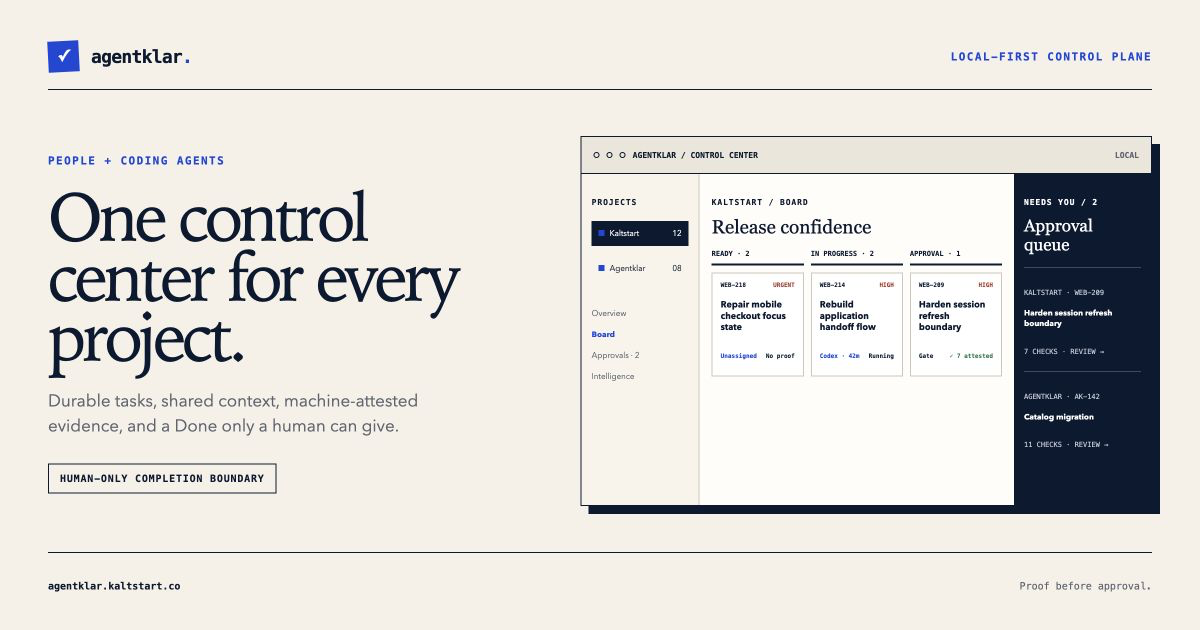
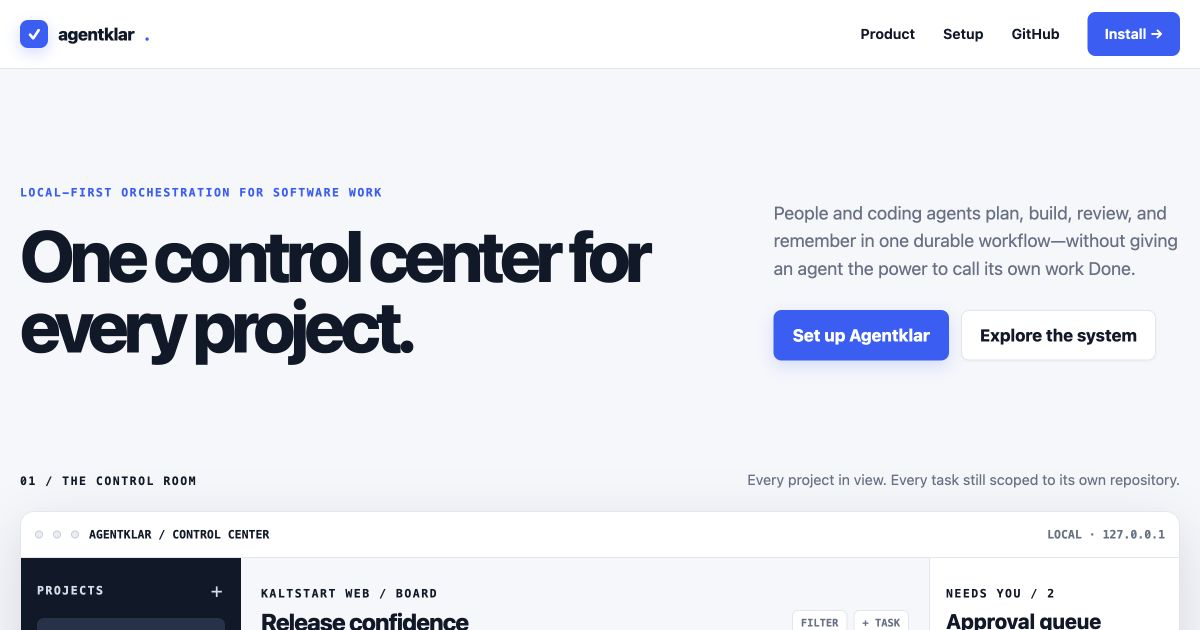
feat: bring Precision Ops to the product site

diff --git a/docs/site/index.html b/docs/site/index.html
@@ -15,19 +15,18 @@
   <style>
     :root {
       color-scheme: light;
-      --paper: #f5f1e8;
-      --paper-2: #ece6d9;
-      --ink: #0a1931;
-      --muted: #5d6470;
-      --line: #cfc8ba;
-      --cobalt: #1648d8;
-      --cobalt-dark: #1038a8;
+      --paper: #f5f7fb;
+      --paper-2: #eef2f7;
+      --ink: #101828;
+      --muted: #667085;
+      --line: #e1e6ee;
+      --cobalt: #315efb;
+      --cobalt-dark: #2447c6;
       --green: #19724c;
       --amber: #9b5b10;
       --red: #a93226;
-      --white: #fffdf8;
-      --sans: "Avenir Next", Avenir, "IBM Plex Sans", "Segoe UI", sans-serif;
-      --serif: Iowan Old Style, "Palatino Linotype", Palatino, Georgia, serif;
+      --white: #ffffff;
+      --sans: -apple-system, BlinkMacSystemFont, "Segoe UI", sans-serif;
       --mono: "IBM Plex Mono", "SFMono-Regular", Consolas, monospace;
       --max: 1240px;
     }
@@ -44,16 +43,16 @@
     .site-head { border-bottom: 1px solid var(--ink); }
     .nav { min-height: 76px; display: flex; align-items: center; gap: 28px; }
     .brand { display: inline-flex; align-items: center; gap: 10px; font-family: var(--mono); font-weight: 700; text-decoration: none; }
-    .mark { width: 28px; height: 28px; display: grid; place-items: center; background: var(--cobalt); color: white; font-size: 15px; transform: rotate(-3deg); }
+    .mark { width: 28px; height: 28px; display: grid; place-items: center; background: var(--cobalt); color: white; font-size: 15px; transform:none; }
     .brand em { color: var(--cobalt); font-style: normal; }
     .nav-links { margin-left: auto; display: flex; align-items: center; gap: 28px; font-size: .88rem; font-weight: 650; }
     .nav-links a { text-decoration: none; }
-    .nav-cta { min-height: 44px; display: inline-flex; align-items: center; border: 1px solid var(--ink); padding: 10px 16px; box-shadow: 3px 3px 0 var(--ink); }
+    .nav-cta { min-height: 44px; display: inline-flex; align-items: center; border: 1px solid var(--ink); padding: 10px 16px; box-shadow:none; }
     .hero { padding: clamp(72px, 10vw, 144px) 0 72px; border-bottom: 1px solid var(--ink); }
     .hero-grid { display: grid; grid-template-columns: minmax(0, 1.25fr) minmax(280px, .55fr); gap: clamp(48px, 8vw, 120px); align-items: end; }
     .kicker, .section-no, .mini-label { font-family: var(--mono); text-transform: uppercase; letter-spacing: .13em; font-size: .72rem; font-weight: 700; }
     .kicker { color: var(--cobalt); }
-    h1 { max-width: 930px; margin: 18px 0 0; font: 500 clamp(4rem, 8.2vw, 7.8rem)/.86 var(--serif); letter-spacing: -.065em; }
+    h1 { max-width: 930px; margin: 18px 0 0; font: 500 clamp(4rem, 8.2vw, 7.8rem)/.86 var(--sans); letter-spacing: -.065em; }
     .hero-copy { margin: 0 0 8px; padding-top: 20px; border-top: 1px solid var(--ink); color: var(--muted); font-size: 1.12rem; }
     .hero-actions { display: flex; flex-wrap: wrap; gap: 12px; margin-top: 28px; }
     .button { display: inline-flex; min-height: 48px; align-items: center; justify-content: center; padding: 11px 18px; border: 1px solid var(--ink); background: var(--cobalt); color: white; font-weight: 750; text-decoration: none; }
@@ -63,7 +62,7 @@
     .product { padding: 48px 0 92px; border-bottom: 1px solid var(--ink); }
     .product-top { display: flex; justify-content: space-between; align-items: baseline; gap: 24px; margin-bottom: 20px; }
     .product-top p { margin: 0; color: var(--muted); font-size: .9rem; }
-    .app { overflow: hidden; border: 1px solid var(--ink); background: var(--white); box-shadow: 9px 9px 0 var(--ink); }
+    .app { overflow: hidden; border: 1px solid var(--ink); background: var(--white); box-shadow:none; }
     .app-bar { min-height: 48px; padding: 0 14px; border-bottom: 1px solid var(--ink); display: flex; align-items: center; gap: 10px; background: var(--paper-2); font: 650 .72rem var(--mono); }
     .window-dot { width: 8px; height: 8px; border: 1px solid var(--ink); border-radius: 50%; }
     .app-bar .path { margin-left: auto; color: var(--muted); }
@@ -83,7 +82,7 @@
     .rail-nav .on { color: var(--cobalt); font-weight: 750; }
     .board-pane { min-width: 0; padding: 20px; overflow: hidden; }
     .board-head { display: flex; justify-content: space-between; gap: 16px; align-items: end; padding-bottom: 16px; border-bottom: 1px solid var(--line); }
-    .board-head h2 { margin: 4px 0 0; font: 500 1.75rem var(--serif); }
+    .board-head h2 { margin: 4px 0 0; font: 500 1.75rem var(--sans); }
     .board-tools { display: flex; gap: 6px; font: 650 .65rem var(--mono); }
     .tool { padding: 6px 8px; border: 1px solid var(--line); color: var(--muted); }
     .columns { display: grid; grid-template-columns: repeat(3, minmax(165px, 1fr)); gap: 10px; margin-top: 18px; }
@@ -100,29 +99,29 @@
     .evidence { color: var(--green); }
     .evidence.wait { color: var(--muted); }
     .attention { border-left: 1px solid var(--line); background: var(--ink); color: white; padding: 20px 16px; }
-    .attention h2 { margin: 5px 0 18px; font: 500 1.45rem var(--serif); }
+    .attention h2 { margin: 5px 0 18px; font: 500 1.45rem var(--sans); }
     .queue { border-top: 1px solid #3b4658; padding: 14px 0; }
     .queue b { display: block; margin: 6px 0 10px; font-size: .78rem; line-height: 1.35; }
     .queue-meta { display: flex; justify-content: space-between; color: #bac3cf; font: .59rem var(--mono); }
     .review { display: inline-block; margin-top: 12px; padding: 6px 9px; border: 1px solid #8094ff; color: #c4ceff; font: 650 .6rem var(--mono); }
     .manifesto { display: grid; grid-template-columns: .62fr 1.38fr; gap: clamp(48px, 8vw, 130px); padding: 100px 0; border-bottom: 1px solid var(--ink); }
-    .manifesto h2, .capabilities h2, .close h2 { margin: 12px 0 0; font: 500 clamp(2.8rem, 5.2vw, 5rem)/.95 var(--serif); letter-spacing: -.045em; }
+    .manifesto h2, .capabilities h2, .close h2 { margin: 12px 0 0; font: 500 clamp(2.8rem, 5.2vw, 5rem)/.95 var(--sans); letter-spacing: -.045em; }
     .principles { border-top: 1px solid var(--ink); }
     .principle { display: grid; grid-template-columns: 44px 1fr; gap: 18px; padding: 24px 0; border-bottom: 1px solid var(--line); }
-    .principle strong { font: 500 1.4rem var(--serif); }
+    .principle strong { font: 500 1.4rem var(--sans); }
     .principle p { margin: 5px 0 0; color: var(--muted); }
     .capabilities { padding: 100px 0; border-bottom: 1px solid var(--ink); }
     .cap-head { display: grid; grid-template-columns: 1fr 1fr; gap: 50px; align-items: end; }
     .cap-head > p { color: var(--muted); max-width: 520px; }
     .cap-grid { display: grid; grid-template-columns: repeat(3, 1fr); border-top: 1px solid var(--ink); border-left: 1px solid var(--ink); margin-top: 48px; }
     .cap { min-height: 240px; padding: 26px; border-right: 1px solid var(--ink); border-bottom: 1px solid var(--ink); }
-    .cap h3 { margin: 50px 0 8px; font: 500 1.45rem var(--serif); }
+    .cap h3 { margin: 50px 0 8px; font: 500 1.45rem var(--sans); }
     .cap p { margin: 0; color: var(--muted); font-size: .92rem; }
     .install { padding: 84px 0; color: white; background: var(--ink); }
     .install-grid { display: grid; grid-template-columns: .75fr 1.25fr; gap: 70px; align-items: center; }
-    .install h2 { margin: 12px 0; font: 500 clamp(2.4rem, 4.4vw, 4.2rem)/1 var(--serif); }
+    .install h2 { margin: 12px 0; font: 500 clamp(2.4rem, 4.4vw, 4.2rem)/1 var(--sans); }
     .install p { color: #bac3cf; }
-    .terminal { border: 1px solid #566174; background: #071122; padding: 20px; overflow-x: auto; box-shadow: 7px 7px 0 var(--cobalt); }
+    .terminal { border: 1px solid #566174; background: #071122; padding: 20px; overflow-x: auto; box-shadow:none; }
     .terminal pre { margin: 0; color: #dfe5ee; font: .78rem/1.9 var(--mono); white-space: pre-wrap; }
     .prompt { color: #7fa0ff; }
     .close { padding: 100px 0 110px; text-align: center; }
@@ -148,7 +147,7 @@
       h1 { font-size: clamp(3.5rem, 17vw, 5rem); }
       .product { padding-bottom: 70px; }
       .product-top { align-items: flex-start; flex-direction: column; }
-      .app { overflow-x: auto; box-shadow: 5px 5px 0 var(--ink); }
+      .app { overflow-x: auto; box-shadow:none; }
       .app-body { min-width: 790px; }
       .manifesto, .capabilities, .close { padding-block: 72px; }
       .cap-grid { grid-template-columns: 1fr; }
@@ -157,6 +156,63 @@
       .foot { align-items: flex-start; flex-direction: column; padding-block: 28px; }
       .foot-links { margin-left: 0; flex-wrap: wrap; }
     }
+    /* Precision Ops */
+    body { background: var(--paper); }
+    .site-head { border-color: var(--line); background: rgba(255,255,255,.94); }
+    .nav { min-height: 68px; }
+    .brand { font-family: var(--sans); font-weight: 800; letter-spacing: -.025em; }
+    .mark { border-radius: 8px; transform: none; box-shadow: 0 5px 14px rgba(49,94,251,.22); }
+    .nav-cta { border-color: var(--cobalt); border-radius: 8px; background: var(--cobalt); color: #fff; box-shadow: none; }
+    .nav-cta:hover { color: #fff; background: var(--cobalt-dark); }
+    .hero { padding: clamp(76px,9vw,118px) 0 70px; border: 0; }
+    .hero-grid { grid-template-columns: minmax(0,1.12fr) minmax(300px,.68fr); gap: clamp(44px,7vw,100px); }
+    h1 { max-width: 850px; margin-top: 16px; font: 780 clamp(3.2rem,6vw,5.5rem)/.98 var(--sans); letter-spacing: -.065em; }
+    .hero-copy { padding-top: 0; border: 0; }
+    .button { border-color: var(--cobalt); border-radius: 8px; box-shadow: 0 6px 16px rgba(49,94,251,.18); }
+    .button.secondary { border-color: var(--line); background: var(--white); box-shadow: 0 1px 2px rgba(16,24,40,.04); }
+    .button.secondary:hover { border-color: #c9d2df; background: #f8fafc; }
+    .product { padding-top: 38px; border: 0; }
+    .app { border-color: var(--line); border-radius: 14px; box-shadow: 0 18px 55px rgba(16,24,40,.14); }
+    .app-bar { min-height: 46px; border-color: var(--line); background: #fff; }
+    .window-dot { border-color: #c4ccd8; background: #e9edf3; }
+    .rail { color: #d7deea; border: 0; background: #101828; }
+    .project-row { border-radius: 7px; }
+    .project-row.active { background: #24324a; }
+    .project-dot { border-radius: 50%; }
+    .rail-rule { border-color: #2a3850; }
+    .rail-nav { color: #96a3b7; }
+    .rail-nav span { border-radius: 6px; }
+    .rail-nav .on { color: #fff; background: #24324a; box-shadow: inset 3px 0 var(--cobalt); }
+    .board-pane { background: #f5f7fb; }
+    .board-head { border-color: var(--line); }
+    .board-head h2 { font-size: 1.5rem; font-weight: 760; letter-spacing: -.035em; }
+    .tool { border-color: var(--line); border-radius: 6px; background: #fff; }
+    .column { padding: 10px; border: 1px solid var(--line); border-radius: 10px; background: #eef2f7; }
+    .column-head { border-color: #cbd5e1; }
+    .task { border-color: var(--line); border-radius: 8px; box-shadow: 0 2px 7px rgba(16,24,40,.06); }
+    .priority { border: 0; border-radius: 999px; background: #fff0ee; }
+    .priority.medium { background: #fff5e5; }
+    .attention { color: var(--ink); border-color: var(--line); background: #fff; }
+    .attention h2 { font-size: 1.3rem; font-weight: 760; }
+    .queue { border-color: var(--line); }
+    .queue-meta { color: var(--muted); }
+    .review { border-color: #cdd8ff; border-radius: 6px; color: var(--cobalt-dark); background: #eef3ff; }
+    .manifesto { border: 0; }
+    .manifesto h2, .capabilities h2, .close h2 { font-weight: 760; letter-spacing: -.05em; }
+    .principles { display: grid; gap: 10px; border: 0; }
+    .principle { padding: 22px; border: 1px solid var(--line); border-radius: 10px; background: #fff; box-shadow: 0 1px 2px rgba(16,24,40,.03); }
+    .principle strong { font-size: 1.22rem; font-weight: 760; }
+    .capabilities { border: 0; }
+    .cap-grid { gap: 12px; border: 0; }
+    .cap { min-height: 220px; border: 1px solid var(--line); border-radius: 10px; background: #fff; box-shadow: 0 1px 2px rgba(16,24,40,.03); }
+    .cap h3 { font-size: 1.35rem; font-weight: 760; }
+    .install { background: #101828; }
+    .install h2 { font-weight: 760; }
+    .terminal { border-color: #344054; border-radius: 10px; box-shadow: none; }
+    .close { padding-top: 90px; }
+    footer { border-color: var(--line); background: #fff; }
+    @media (max-width: 980px) { .hero-grid { grid-template-columns: 1fr; } }
+    @media (max-width: 650px) { h1 { font-size: clamp(3rem,14vw,4.5rem); } .app { box-shadow: 0 12px 35px rgba(16,24,40,.14); } }
     @media (prefers-reduced-motion: reduce) { html { scroll-behavior: auto; } }
   </style>
 </head>

diff --git a/docs/site/features.html b/docs/site/features.html
@@ -11,7 +11,7 @@
   <meta property="og:image" content="https://agentklar.kaltstart.co/og.png">
   <link rel="icon" href="logo.svg" type="image/svg+xml">
   <style>
-    :root { --paper:#f5f1e8; --paper-2:#ece6d9; --white:#fffdf8; --ink:#0a1931; --muted:#5d6470; --line:#cfc8ba; --cobalt:#1648d8; --green:#19724c; --red:#a93226; --sans:"Avenir Next",Avenir,"IBM Plex Sans","Segoe UI",sans-serif; --serif:Iowan Old Style,"Palatino Linotype",Palatino,Georgia,serif; --mono:"IBM Plex Mono","SFMono-Regular",Consolas,monospace; --max:1120px; }
+    :root { --paper:#f5f7fb; --paper-2:#eef2f7; --white:#ffffff; --ink:#101828; --muted:#667085; --line:#e1e6ee; --cobalt:#315efb; --green:#19724c; --red:#a93226; --sans:-apple-system,BlinkMacSystemFont,"Segoe UI",sans-serif; --mono:"IBM Plex Mono","SFMono-Regular",Consolas,monospace; --max:1120px; }
     * { box-sizing:border-box; }
     html { scroll-behavior:smooth; }
     body { margin:0; background:var(--paper); color:var(--ink); font:17px/1.6 var(--sans); }
@@ -24,22 +24,22 @@
     header { border-bottom:1px solid var(--ink); }
     .nav { min-height:76px; display:flex; align-items:center; gap:28px; }
     .brand { display:inline-flex; align-items:center; gap:10px; font:700 .95rem var(--mono); text-decoration:none; }
-    .mark { width:28px; height:28px; display:grid; place-items:center; background:var(--cobalt); color:#fff; transform:rotate(-3deg); }
+    .mark { width:28px; height:28px; display:grid; place-items:center; background:var(--cobalt); color:#fff; transform:none; }
     .brand em { color:var(--cobalt); font-style:normal; }
     .nav-links { margin-left:auto; display:flex; gap:28px; align-items:center; font-size:.88rem; font-weight:650; }
     .nav-links a { text-decoration:none; }
     .active { color:var(--cobalt); }
-    .nav-cta { min-height:44px; display:inline-flex; align-items:center; border:1px solid var(--ink); padding:9px 14px; box-shadow:3px 3px 0 var(--ink); }
+    .nav-cta { min-height:44px; display:inline-flex; align-items:center; border:1px solid var(--ink); padding:9px 14px; box-shadow:none; }
     .eyebrow, .number, .label { font:700 .7rem var(--mono); text-transform:uppercase; letter-spacing:.13em; }
     .eyebrow, .number { color:var(--cobalt); }
     .hero { padding:clamp(72px,10vw,130px) 0 76px; border-bottom:1px solid var(--ink); }
-    h1 { max-width:900px; margin:18px 0 28px; font:500 clamp(3.8rem,8vw,7.4rem)/.88 var(--serif); letter-spacing:-.06em; }
+    h1 { max-width:900px; margin:18px 0 28px; font:500 clamp(3.8rem,8vw,7.4rem)/.88 var(--sans); letter-spacing:-.06em; }
     .lede { max-width:700px; margin:0; color:var(--muted); font-size:1.15rem; }
     .statement { display:grid; grid-template-columns:.55fr 1.45fr; gap:70px; padding:92px 0; border-bottom:1px solid var(--ink); }
-    .statement h2, .section-head h2 { margin:10px 0 0; font:500 clamp(2.6rem,5vw,4.8rem)/.96 var(--serif); letter-spacing:-.045em; }
+    .statement h2, .section-head h2 { margin:10px 0 0; font:500 clamp(2.6rem,5vw,4.8rem)/.96 var(--sans); letter-spacing:-.045em; }
     .flow { border-top:1px solid var(--ink); }
     .state { display:grid; grid-template-columns:46px 180px 1fr; gap:18px; padding:22px 0; border-bottom:1px solid var(--line); align-items:baseline; }
-    .state strong { font:500 1.25rem var(--serif); }
+    .state strong { font:500 1.25rem var(--sans); }
     .state p { margin:0; color:var(--muted); }
     .gate { color:var(--cobalt); }
     .human { color:var(--green); }
@@ -47,38 +47,68 @@
     .section-head { display:grid; grid-template-columns:1fr 1fr; gap:60px; align-items:end; }
     .section-head > p { margin:0; color:var(--muted); }
     .feature-grid { margin-top:46px; display:grid; grid-template-columns:repeat(2,1fr); border-top:1px solid var(--ink); border-left:1px solid var(--ink); }
-    .feature { min-height:260px; padding:28px; border-right:1px solid var(--ink); border-bottom:1px solid var(--ink); background:rgba(255,253,248,.25); }
-    .feature h3 { margin:58px 0 8px; font:500 1.65rem var(--serif); }
+    .feature { min-height:260px; padding:28px; border-right:1px solid var(--ink); border-bottom:1px solid var(--ink); background:rgba(255,255,255,.25); }
+    .feature h3 { margin:58px 0 8px; font:500 1.65rem var(--sans); }
     .feature p { max-width:46ch; margin:0; color:var(--muted); font-size:.94rem; }
     .model { display:grid; grid-template-columns:repeat(3,1fr); margin-top:46px; border:1px solid var(--ink); background:var(--white); }
     .model article { padding:26px; border-right:1px solid var(--ink); }
     .model article:last-child { border:0; }
-    .model h3 { margin:34px 0 8px; font:500 1.45rem var(--serif); }
+    .model h3 { margin:34px 0 8px; font:500 1.45rem var(--sans); }
     .model p { margin:0; color:var(--muted); font-size:.9rem; }
     .model code { font:.74rem var(--mono); color:var(--cobalt); }
     .boundary { background:var(--ink); color:#fff; }
     .boundary .shell { padding-block:92px; display:grid; grid-template-columns:.8fr 1.2fr; gap:80px; }
-    .boundary h2 { margin:12px 0; font:500 clamp(2.8rem,5vw,5rem)/.96 var(--serif); }
+    .boundary h2 { margin:12px 0; font:500 clamp(2.8rem,5vw,5rem)/.96 var(--sans); }
     .boundary p { color:#bac3cf; }
-    .contract { align-self:center; border:1px solid #566174; padding:24px; box-shadow:7px 7px 0 var(--cobalt); }
+    .contract { align-self:center; border:1px solid #566174; padding:24px; box-shadow:none; }
     .contract-row { display:flex; justify-content:space-between; gap:20px; padding:11px 0; border-bottom:1px solid #364256; font:.73rem var(--mono); }
     .contract-row:last-child { border:0; }
     .yes { color:#79d6aa; } .no { color:#ff9488; }
     .deploy { padding:90px 0; border-bottom:1px solid var(--ink); }
     .deploy-grid { display:grid; grid-template-columns:1fr 1fr; gap:16px; margin-top:42px; }
     .deploy article { padding:28px; border:1px solid var(--ink); }
-    .deploy h3 { margin:35px 0 8px; font:500 1.55rem var(--serif); }
+    .deploy h3 { margin:35px 0 8px; font:500 1.55rem var(--sans); }
     .deploy p { margin:0; color:var(--muted); }
     .note { margin-top:20px; padding:16px 18px; border-left:4px solid var(--cobalt); background:var(--paper-2); color:var(--muted); }
     .cta { padding:100px 0; text-align:center; }
-    .cta h2 { max-width:760px; margin:0 auto 30px; font:500 clamp(2.8rem,5vw,5rem)/.98 var(--serif); letter-spacing:-.045em; }
+    .cta h2 { max-width:760px; margin:0 auto 30px; font:500 clamp(2.8rem,5vw,5rem)/.98 var(--sans); letter-spacing:-.045em; }
     .button { display:inline-flex; min-height:48px; align-items:center; padding:10px 18px; background:var(--cobalt); border:1px solid var(--ink); color:#fff; text-decoration:none; font-weight:750; }
-    .button:hover { color:#fff; background:#1038a8; }
+    .button:hover { color:#fff; background:#2447c6; }
     footer { border-top:1px solid var(--ink); }
     .foot { min-height:100px; display:flex; align-items:center; gap:24px; color:var(--muted); font-size:.82rem; }
     .foot-links { margin-left:auto; display:flex; gap:22px; }
     @media (max-width:800px) { .statement,.section-head,.boundary .shell { grid-template-columns:1fr; gap:44px; } .model { grid-template-columns:1fr; } .model article { border-right:0; border-bottom:1px solid var(--ink); } .model article:last-child { border-bottom:0; } }
     @media (max-width:620px) { .shell { width:calc(100% - 28px); } .nav { min-height:64px; } .nav-links a:not(.nav-cta) { display:none; } .nav-cta { box-shadow:none; padding:8px 10px; } h1 { font-size:clamp(3.6rem,17vw,5.2rem); } .statement,.block,.deploy,.cta { padding-block:70px; } .state { grid-template-columns:34px 1fr; } .state p { grid-column:2; } .feature-grid,.deploy-grid { grid-template-columns:1fr; } .feature { min-height:auto; } .feature h3 { margin-top:34px; } .foot { align-items:flex-start; flex-direction:column; padding:28px 0; } .foot-links { margin:0; flex-wrap:wrap; } }
+    /* Precision Ops */
+    header { border-color: var(--line); background: rgba(255,255,255,.94); }
+    .nav { min-height: 68px; }
+    .brand { font-family: var(--sans); font-weight: 800; letter-spacing: -.025em; }
+    .mark { border-radius: 8px; transform: none; box-shadow: 0 5px 14px rgba(49,94,251,.22); }
+    .nav-cta { border-color: var(--cobalt); border-radius: 8px; background: var(--cobalt); color: #fff; box-shadow: none; }
+    .nav-cta:hover { color: #fff; background: #2447c6; }
+    .hero { padding: clamp(76px,9vw,116px) 0 68px; border: 0; }
+    h1 { max-width: 820px; font: 780 clamp(3.2rem,6vw,5.4rem)/.98 var(--sans); letter-spacing: -.06em; }
+    .statement { border: 0; }
+    .statement h2, .section-head h2, .boundary h2, .cta h2 { font-weight: 760; letter-spacing: -.05em; }
+    .flow { display: grid; gap: 9px; border: 0; }
+    .state { padding: 18px; border: 1px solid var(--line); border-radius: 9px; background: #fff; }
+    .state strong { font-size: 1.15rem; font-weight: 760; }
+    .block { border: 0; }
+    .feature-grid { gap: 12px; border: 0; }
+    .feature { min-height: 240px; border: 1px solid var(--line); border-radius: 10px; background: #fff; box-shadow: 0 1px 2px rgba(16,24,40,.03); }
+    .feature h3, .model h3, .deploy h3 { font-weight: 760; letter-spacing: -.025em; }
+    .model { gap: 12px; border: 0; background: transparent; }
+    .model article { border: 1px solid var(--line); border-radius: 10px; background: #fff; box-shadow: 0 1px 2px rgba(16,24,40,.03); }
+    .model article:last-child { border: 1px solid var(--line); }
+    .boundary { background: #101828; }
+    .contract { border-color: #344054; border-radius: 10px; background: #172033; box-shadow: none; }
+    .deploy { border: 0; }
+    .deploy article { border-color: var(--line); border-radius: 10px; background: #fff; box-shadow: 0 1px 2px rgba(16,24,40,.03); }
+    .note { border: 1px solid #d8e2ff; border-left: 4px solid var(--cobalt); border-radius: 8px; background: #eef3ff; }
+    .button { border-color: var(--cobalt); border-radius: 8px; box-shadow: 0 6px 16px rgba(49,94,251,.18); }
+    footer { border-color: var(--line); background: #fff; }
+    @media (max-width: 800px) { .model article, .model article:last-child { border: 1px solid var(--line); } }
+    @media (max-width: 620px) { h1 { font-size: clamp(3rem,14vw,4.5rem); } }
     @media (prefers-reduced-motion:reduce) { html { scroll-behavior:auto; } }
   </style>
 </head>

diff --git a/docs/site/usage.html b/docs/site/usage.html
@@ -11,7 +11,7 @@
   <meta property="og:image" content="https://agentklar.kaltstart.co/og.png">
   <link rel="icon" href="logo.svg" type="image/svg+xml">
   <style>
-    :root { --paper:#f5f1e8; --paper-2:#ece6d9; --ink:#0a1931; --muted:#5d6470; --line:#cfc8ba; --cobalt:#1648d8; --cobalt-dark:#1038a8; --green:#19724c; --white:#fffdf8; --sans:"Avenir Next",Avenir,"IBM Plex Sans","Segoe UI",sans-serif; --serif:Iowan Old Style,"Palatino Linotype",Palatino,Georgia,serif; --mono:"IBM Plex Mono","SFMono-Regular",Consolas,monospace; --max:1000px; }
+    :root { --paper:#f5f7fb; --paper-2:#eef2f7; --ink:#101828; --muted:#667085; --line:#e1e6ee; --cobalt:#315efb; --cobalt-dark:#2447c6; --green:#19724c; --white:#ffffff; --sans:-apple-system,BlinkMacSystemFont,"Segoe UI",sans-serif; --mono:"IBM Plex Mono","SFMono-Regular",Consolas,monospace; --max:1000px; }
     * { box-sizing:border-box; }
     html { scroll-behavior:smooth; }
     body { margin:0; background:var(--paper); color:var(--ink); font:17px/1.6 var(--sans); }
@@ -25,22 +25,22 @@
     header { border-bottom:1px solid var(--ink); }
     .nav { min-height:76px; display:flex; align-items:center; gap:28px; }
     .brand { display:inline-flex; align-items:center; gap:10px; font:700 .95rem var(--mono); text-decoration:none; }
-    .mark { width:28px; height:28px; display:grid; place-items:center; background:var(--cobalt); color:#fff; transform:rotate(-3deg); }
+    .mark { width:28px; height:28px; display:grid; place-items:center; background:var(--cobalt); color:#fff; transform:none; }
     .brand em { color:var(--cobalt); font-style:normal; }
     .nav-links { margin-left:auto; display:flex; gap:28px; align-items:center; font-size:.88rem; font-weight:650; }
     .nav-links a { text-decoration:none; }
     .active { color:var(--cobalt); }
-    .nav-cta { min-height:44px; display:inline-flex; align-items:center; border:1px solid var(--ink); padding:9px 14px; box-shadow:3px 3px 0 var(--ink); }
+    .nav-cta { min-height:44px; display:inline-flex; align-items:center; border:1px solid var(--ink); padding:9px 14px; box-shadow:none; }
     .eyebrow, .step-no, .label { font:700 .7rem var(--mono); text-transform:uppercase; letter-spacing:.13em; }
     .eyebrow, .step-no { color:var(--cobalt); }
     .hero { padding:clamp(72px,10vw,128px) 0 76px; border-bottom:1px solid var(--ink); }
-    h1 { max-width:880px; margin:18px 0 26px; font:500 clamp(3.8rem,8vw,7rem)/.89 var(--serif); letter-spacing:-.06em; }
+    h1 { max-width:880px; margin:18px 0 26px; font:500 clamp(3.8rem,8vw,7rem)/.89 var(--sans); letter-spacing:-.06em; }
     .lede { max-width:650px; margin:0; color:var(--muted); font-size:1.14rem; }
     .steps { counter-reset:setup; }
     .step { display:grid; grid-template-columns:210px minmax(0,1fr); gap:54px; padding:72px 0; border-bottom:1px solid var(--ink); }
-    .step-side h2 { margin:12px 0 0; font:500 2.3rem/1 var(--serif); }
+    .step-side h2 { margin:12px 0 0; font:500 2.3rem/1 var(--sans); }
     .step-main > p { margin:0 0 18px; max-width:670px; color:var(--muted); }
-    .terminal { position:relative; margin:18px 0; padding:22px; overflow-x:auto; border:1px solid var(--ink); background:var(--ink); box-shadow:6px 6px 0 var(--cobalt); }
+    .terminal { position:relative; margin:18px 0; padding:22px; overflow-x:auto; border:1px solid var(--ink); background:var(--ink); box-shadow:none; }
     .terminal pre { margin:0; color:#dfe5ee; font:.78rem/1.9 var(--mono); white-space:pre-wrap; }
     .prompt { color:#83a2ff; } .comment { color:#8490a2; }
     .copy { position:absolute; top:10px; right:10px; min-width:44px; min-height:44px; border:1px solid #59667a; background:#13213a; color:#c8d0dd; padding:4px 9px; font:650 .62rem var(--mono); cursor:pointer; }
@@ -50,23 +50,47 @@
     .note strong { color:var(--ink); }
     .checks { display:grid; grid-template-columns:repeat(3,1fr); gap:1px; border:1px solid var(--ink); background:var(--ink); margin-top:20px; }
     .check { min-height:150px; padding:20px; background:var(--white); }
-    .check strong { display:block; margin:32px 0 7px; font:500 1.25rem var(--serif); }
+    .check strong { display:block; margin:32px 0 7px; font:500 1.25rem var(--sans); }
     .check p { margin:0; color:var(--muted); font-size:.86rem; }
     .reference { padding:80px 0; border-bottom:1px solid var(--ink); }
-    .reference h2 { margin:10px 0 30px; font:500 2.8rem var(--serif); }
+    .reference h2 { margin:10px 0 30px; font:500 2.8rem var(--sans); }
     .command { display:grid; grid-template-columns:minmax(250px,.7fr) 1fr; gap:30px; padding:16px 0; border-top:1px solid var(--line); align-items:baseline; }
     .command:first-of-type { border-top:1px solid var(--ink); }
     .command code { color:var(--cobalt); font:650 .78rem var(--mono); }
     .command span { color:var(--muted); font-size:.92rem; }
     .legacy { padding:70px 0; }
     .legacy-box { padding:34px; border:1px solid var(--ink); background:var(--paper-2); }
-    .legacy h2 { margin:9px 0 12px; font:500 2rem var(--serif); }
+    .legacy h2 { margin:9px 0 12px; font:500 2rem var(--sans); }
     .legacy p { margin:0; color:var(--muted); }
     footer { border-top:1px solid var(--ink); }
     .foot { min-height:100px; display:flex; align-items:center; gap:24px; color:var(--muted); font-size:.82rem; }
     .foot-links { margin-left:auto; display:flex; gap:22px; }
     @media (max-width:750px) { .step { grid-template-columns:1fr; gap:30px; } .checks { grid-template-columns:1fr; } .check { min-height:auto; } .check strong { margin-top:20px; } }
     @media (max-width:620px) { .shell { width:calc(100% - 28px); } .nav { min-height:64px; } .nav-links a:not(.nav-cta) { display:none; } .nav-cta { box-shadow:none; padding:8px 10px; } h1 { font-size:clamp(3.6rem,17vw,5.2rem); } .hero { padding-top:70px; } .step { padding:58px 0; } .command { grid-template-columns:1fr; gap:5px; } .foot { align-items:flex-start; flex-direction:column; padding:28px 0; } .foot-links { margin:0; flex-wrap:wrap; } }
+    /* Precision Ops */
+    header { border-color: var(--line); background: rgba(255,255,255,.94); }
+    .nav { min-height: 68px; }
+    .brand { font-family: var(--sans); font-weight: 800; letter-spacing: -.025em; }
+    .mark { border-radius: 8px; transform: none; box-shadow: 0 5px 14px rgba(49,94,251,.22); }
+    .nav-cta { border-color: var(--cobalt); border-radius: 8px; background: var(--cobalt); color: #fff; box-shadow: none; }
+    .nav-cta:hover { color: #fff; background: var(--cobalt-dark); }
+    .hero { padding: clamp(76px,9vw,116px) 0 68px; border: 0; }
+    h1 { max-width: 820px; font: 780 clamp(3.2rem,6vw,5.4rem)/.98 var(--sans); letter-spacing: -.06em; }
+    .step { margin-bottom: 14px; padding: 34px; border: 1px solid var(--line); border-radius: 12px; background: #fff; box-shadow: 0 2px 8px rgba(16,24,40,.04); }
+    .step-side h2, .reference h2, .legacy h2 { font-weight: 760; letter-spacing: -.035em; }
+    .terminal { border-color: #344054; border-radius: 10px; background: #101828; box-shadow: none; }
+    .copy { border-color: #475467; border-radius: 7px; background: #1d2939; }
+    .note { border: 1px solid #d8e2ff; border-left: 4px solid var(--cobalt); border-radius: 8px; background: #eef3ff; }
+    .checks { gap: 10px; border: 0; background: transparent; }
+    .check { border: 1px solid var(--line); border-radius: 9px; background: #f8fafc; }
+    .check strong { font-weight: 760; }
+    .reference { border: 0; }
+    .command { margin-bottom: 8px; padding: 16px; border: 1px solid var(--line); border-radius: 8px; background: #fff; }
+    .command:first-of-type { border: 1px solid var(--line); }
+    .legacy-box { border-color: var(--line); border-radius: 12px; background: #eef2f7; }
+    footer { border-color: var(--line); background: #fff; }
+    @media (max-width: 750px) { .step { grid-template-columns: minmax(0,1fr); padding: 24px; } .step > * { min-width: 0; } }
+    @media (max-width: 620px) { h1 { font-size: clamp(3rem,14vw,4.5rem); } .step { padding: 22px 18px; } .terminal { max-width: 100%; } }
     @media (prefers-reduced-motion:reduce) { html { scroll-behavior:auto; } }
   </style>
 </head>

diff --git a/docs/superpowers/specs/2026-08-14-precision-ops-visual-revamp-design.md b/docs/superpowers/specs/2026-08-14-precision-ops-visual-revamp-design.md
@@ -33,7 +33,7 @@ Warm cream, paper texture, decorative ink borders, and editorial color treatment
 
 ### Typography
 
-- Use the existing sans-serif stack headed by IBM Plex Sans and Avenir Next.
+- Use the native UI sans stack headed by `-apple-system` and `BlinkMacSystemFont`, matching the approved mockup without adding a font download.
 - Use the existing monospaced stack only for identifiers, paths, timestamps, and evidence metadata.
 - Remove serif display typography.
 - Page headings are compact and bold; they never dominate the operational content.
